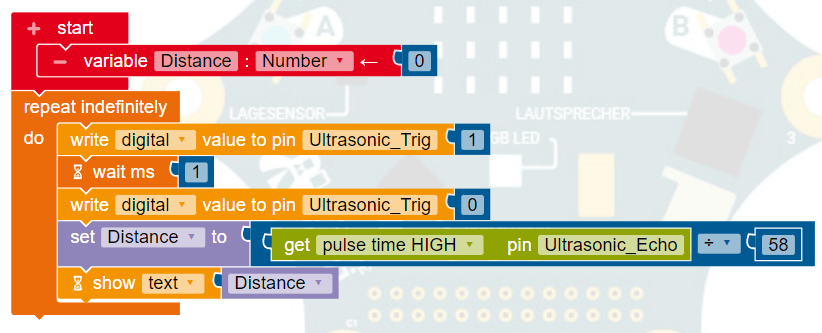
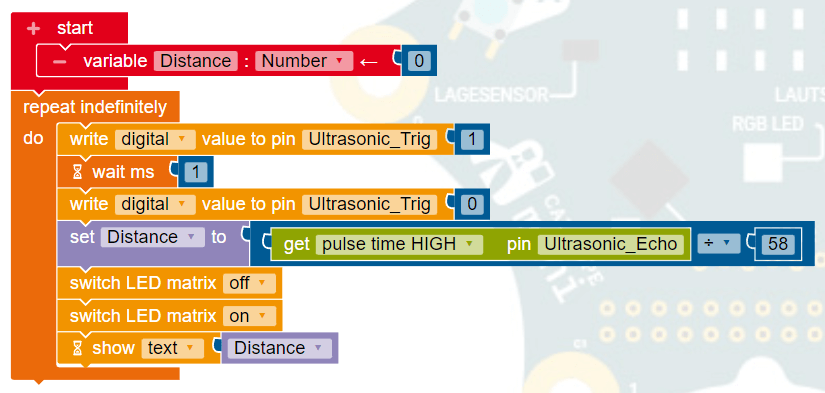
Added switch LED matrix block to ultra sonic example to avoid screen flickering.

diff --git a/hardware/ultra_sonic_hc-sr04/README.md b/hardware/ultra_sonic_hc-sr04/README.md
@@ -188,17 +188,26 @@ We additional convert the value to distance in centimeters and store the result 
 
 ![Example of sensor digital](images/pulse_time_high_echo_pin.png)
 
-#### e.) Show the distance
+#### e.) Switch off/on the LED matrix
+
+Most of the pins are shared with other on-board devices, like the LED matrix display.
+To make sure we avoid any possible side effects or flickering, we need disable and re-enable the LED matrix after the reading of the value digital value from the **echo** pin.
+
+For this reason we move the **switch LED matrix block** from the **Actions -> Pin section** after the reading and set it to "off" and "on" to re-enable the display.
+
+![Example of switch LED Matrix](images/switch_led_matrix.png)
+
+#### f.) Show the distance
 
 In the next step we are displaying the result of the Distance variable on the LCD screen over the **show text block** from the **Action -> Display** section.
 
 ![Example of sensor digital](images/show_text_variable.png)
 
-#### f.) Delay execution
+#### g.) Delay execution
 
-To lower the power consumption, temperature and cpu usage of your program, it's a good idea to delay the execution by 50ms or with the **wait ms block** from the **Control -> Wait section**.
+To lower the power consumption, temperature and cpu usage of your program, it's a good idea to delay the execution by 500ms or with the **wait ms block** from the **Control -> Wait section**.
 
-For most use-cases it's not need to read the distance every 1ms.
+For most use-cases it's not need to read the distance every 1ms, maybe every 10ms or 100ms.
 
 ![Example of sensor digital](images/wait_50ms.png)
 
